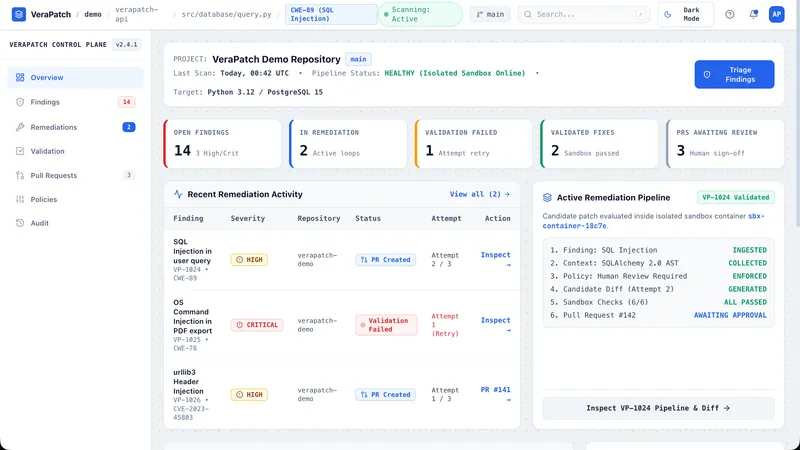
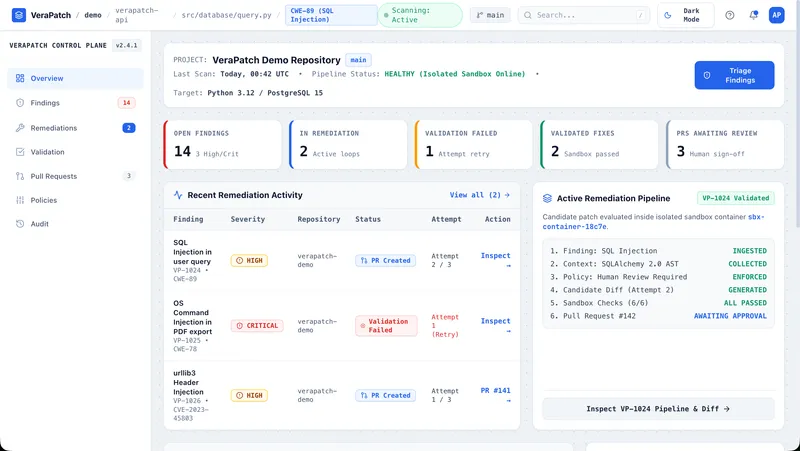
v1.4.1

diff --git a/assets/content.js b/assets/content.js
@@ -22,7 +22,7 @@ window.PORTFOLIO_CONTENT = {
     {
       "image": "assets/optimized/projects/project-1.png.webp",
       "title": "VeraPatch — Automated Security Findings Management",
-      "description": "A DevSecOps prototype that integrates automated security scanning into CI/CD workflows. Uses GitHub Actions and Semgrep to detect vulnerabilities, ingest scan results through a token-authenticated REST API, and organize findings for review. Separates externally accessible scan ingestion from internal read endpoints to reduce security exposure.",
+      "description": "Integrates automated security scanning into CI/CD workflows to collect and manage findings.",
       "tags": [
         "Semgrep",
         "GitHub Actions",
@@ -35,7 +35,7 @@ window.PORTFOLIO_CONTENT = {
     {
       "image": "assets/optimized/projects/project-2.png.webp",
       "title": "Verity — AI-Powered ESG Evidence Extraction",
-      "description": "Built an AI-powered document extraction MVP that converts electricity bills and fuel receipts into structured ESG evidence. Uses Mistral Vision to classify documents, extract key fields, and surface uncertain values for human review. Supports document previews, field-level verification, and JSON/CSV exports.",
+      "description": "Turns electricity bills and fuel receipts into structured ESG data with AI extraction, human review, and JSON/CSV exports.",
       "tags": [
         "Next.js",
         "TypeScript",
@@ -48,15 +48,16 @@ window.PORTFOLIO_CONTENT = {
     },
     {
       "image": "assets/optimized/projects/project-3.png.webp",
-      "title": "Churn prediction",
-      "description": "End-to-end XGBoost pipeline with feature engineering and model explanations.",
+      "title": "Cost-Sensitive LLM Behaviour Monitoring",
+      "description": "A research prototype that uses Bayesian inference and selective investigation to detect LLM behaviour changes and make cost-aware monitoring decisions.",
       "tags": [
-        "XGBoost",
-        "Flask",
-        "SHAP",
-        "Docker"
+        "LLM Monitoring",
+        "Bayesian Inference",
+        "AI Reliability",
+        "Information Gain",
+        "Cost-Sensitive Decisions"
       ],
-      "link": "#"
+      "link": "https://github.com/Durvankur4/ai-native-engineering/tree/main/Cost-Sensitive%20Behaviour%20Monitoring%20of%20LLM"
     },
     {
       "image": "assets/optimized/projects/project-4.png.webp",

diff --git a/index.html b/index.html
@@ -32,12 +32,12 @@
       <div class="editorial-container">
         <div class="editorial-content-left">
           <p class="eyebrow">AI engineering · Machine learning · Data science</p>
-          <h1 class="editorial-title-main">AI Engineer</h1>
+          <h1 class="editorial-title-main">AI Native Engineer</h1>
           <h2 class="editorial-title-sub">&amp; Data Scientist</h2>
           <p class="editorial-desc">I'm Durvankur. I explore data, train machine learning models, and build AI-native applications. This is where I share what I'm building and learning, from early experiments to end-to-end projects.</p>
           <div class="editorial-buttons">
             <a href="#projects" class="btn-primary">Explore work</a>
-            <a href="assets/Durvankur_Resume.pdf.pdf" download="Durvankur_Resume.pdf" class="btn-outline">Resume</a>
+            <a href="assets/Durvankur_Resume.pdf" download="Durvankur_Resume.pdf" class="btn-outline">Resume</a>
           </div>
         </div>
         <div class="hero-photo" id="hero-photo"></div>
@@ -52,7 +52,7 @@
         </div>
       </div>
       <div class="project-controls container">
-        <p id="project-help">Drag to explore. Use left/right arrow keys when focused.</p>
+        <p id="project-help">Drag to explore.</p>
         <button type="button" id="project-pause" aria-pressed="false" aria-controls="project-track">Pause motion</button>
       </div>
       <div class="project-marquee" role="region" aria-label="Featured projects" aria-describedby="project-help">
@@ -78,7 +78,7 @@
         <div class="section-header">
           <p class="section-label">Get in touch</p>
           <h2 class="section-title">Let's connect</h2>
-          <p class="section-subtitle">Interested in working together? I'm open to internships, engineering and data science roles, research opportunities, and collaborations with people building thoughtful AI applications.</p>
+          <p class="section-subtitle">Interested in working together? I'm open to internships, engineering and data science roles, research opportunities, and collaborations with people building thoughtful AI applications. ps : I'm still a workin progress</p>
         </div>
         <div class="contact-links" id="contact-links"></div>
       </div>

diff --git a/assets/socials.js b/assets/socials.js
@@ -3,8 +3,8 @@
  * This file is the only place you need to edit for the contact links.
  */
 window.PORTFOLIO_SOCIALS = [
-  { label: 'Email me', url: 'mailto:durvankur@example.com' },
-  { label: 'GitHub', url: 'https://github.com/durvankur' },
-  { label: 'LinkedIn', url: 'https://linkedin.com/in/durvankur' },
-  { label: 'X', url: 'https://x.com/durvankur' }
+  { label: 'Email me', url: 'mailto:durvankurchavan9@gmail.com' },
+  { label: 'GitHub', url: 'https://github.com/Durvankur4' },
+  { label: 'LinkedIn', url: 'https://linkedin.com/in/durvankurc' },
+  { label: 'X', url: 'https://x.com/durvankurx' }
 ];
